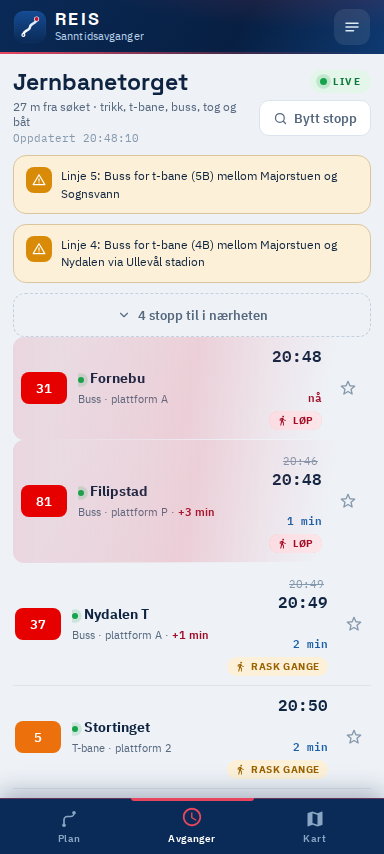
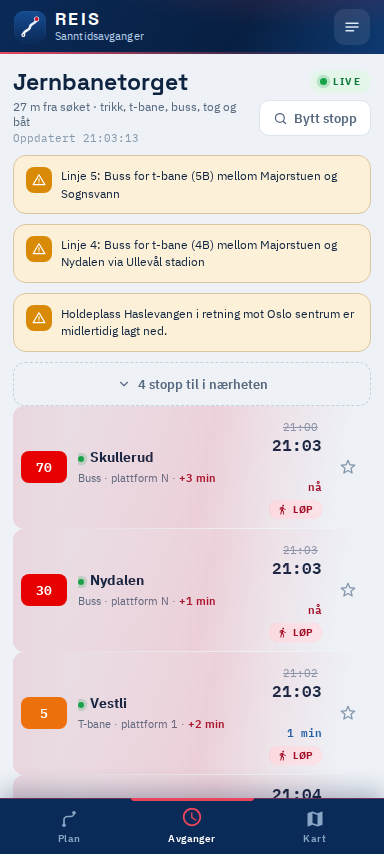
Add files via upload

diff --git a/index.html b/index.html
@@ -1667,7 +1667,7 @@ if(matchMedia('(prefers-color-scheme: dark)').addEventListener)matchMedia('(pref
    allerede åpen side beholder gammel HTML og JS selv om en ny service worker
    er installert. Nå oppdages det, og du får velge når. */
 /* Denne må holdes lik VERSION i sw.js. Byggeskriptet sjekker at de stemmer. */
-const APP_VERSION='v6.2.0';
+const APP_VERSION='v6.3.0';
 let swReg=null,waitingSW=null,reloading=false,byttetSelv=false;
 
 /* Service worker-livssyklusen er lunefull: en ny versjon kan bli hengende i
@@ -2839,12 +2839,14 @@ async function loadNearby(force){
   nearbyBusy=true;
   if(!nearbyStops.length)renderNearby();
   try{
-    const d=await enturGQL(NEARBY_Q,{lat:p.lat,lon:p.lon,r:1300,n:4,dep:3});
+    /* maximumResults teller plattformer FØR multiModalMode grupperer dem –
+       n=4 ga ETT stoppested. Over-etterspør og kutt i visningen i stedet. */
+    const d=await enturGQL(NEARBY_Q,{lat:p.lat,lon:p.lon,r:1300,n:40,dep:3});
     nearbyStops=((d.nearest&&d.nearest.edges)||[]).filter(e=>e.node&&e.node.place&&e.node.place.id).map(e=>{
       const pl=e.node.place;
       const calls=mapCalls(pl).filter(c=>!c.cancelled&&c.t-now()>-60000).slice(0,3);
       return {id:pl.id,name:pl.name,lat:pl.latitude,lon:pl.longitude,dist:e.node.distance,calls};
-    });
+    }).filter(s2=>s2.calls.length).slice(0,4);   // stopp uten avganger hjelper ingen
     nearbyAt=Date.now();
   }catch(e){logErr('nearby',e)}
   finally{nearbyBusy=false;renderNearby()}

diff --git a/sw.js b/sw.js
@@ -5,7 +5,7 @@
      kartfliser → cache-first med tak på antall fliser
      API-er     → network-first med cachet fallback (tunnel/dårlig dekning)
 */
-const VERSION = 'v6.2.0';
+const VERSION = 'v6.3.0';
 const SHELL_CACHE = `reis-shell-${VERSION}`;
 const TILE_CACHE = `reis-tiles-${VERSION}`;
 const DATA_CACHE = `reis-data-${VERSION}`;

diff --git a/ENDRINGER.md b/ENDRINGER.md
@@ -2,7 +2,7 @@
 
 Alt under er verifisert mot Entur live 31. juli 2026, ikke gjettet.
 `node test-live.js` kjører appens egne spørringer mot API-et (15 tester),
-`node test-dom.js` tester grensesnitt og logikk i jsdom (241 tester),
+`node test-dom.js` tester grensesnitt og logikk i jsdom (243 tester),
 `python3 shot.py`, `measure.py`, `swipe_test.py`, `fill_test.py`, `qt_test.py`,
 `sec_test.py`, `overlap_test.py`, `perf_test.py`, `font_test.py`, `a11y.py` og
 `polish_test.py`, `plan_test.py`, `soak.py`, `regress_map.py` og `update_test.py`
@@ -164,6 +164,29 @@ Nå:
 
 Testen booter appen i jsdom **uten** Leaflet i det hele tatt og bekrefter at den
 starter, at Plan-fanen tegnes, og at alle kartfunksjonene har vakt.
+
+---
+
+## «I nærheten» viste bare ett stopp
+
+Etter at velkomsten kom på plass, målte jeg Plan-fanen på nytt – og fant at
+«I nærheten» viste **ett** stoppested, ikke fire.
+
+Samme felle som to andre steder i appen: Entur teller `maximumResults` på
+**plattformer**, ikke stoppesteder. Med `multiModalMode:parent` og `n:4` fikk vi
+ett stopp tilbake. Målt direkte mot API-et:
+
+| Etterspurt | Stoppesteder tilbake |
+|---|---|
+| 4 | **1** |
+| 20 | 7 |
+| 40 | 36 |
+
+Nå etterspørres 40 og vi kutter i visningen. Stopp uten avganger filtreres bort –
+de hjelper ingen. Resultat: **fire stopp med tre avganger hver**, mot ett før.
+
+En test sjekker nå alle tre stedene som bruker dette mønsteret samtidig, så
+fellen ikke kan snike seg inn et fjerde sted.
 
 ---
 
